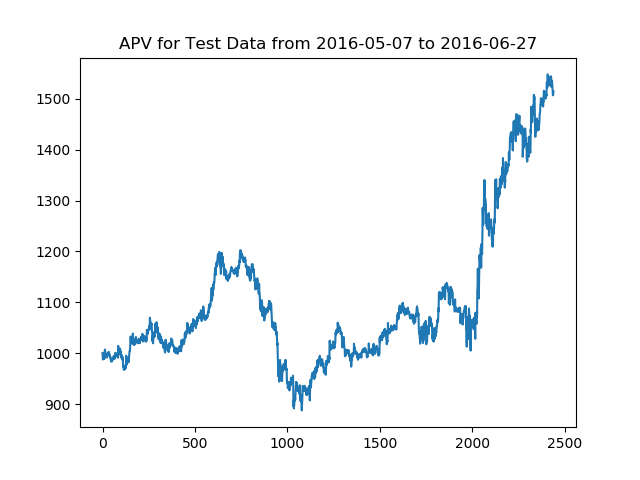
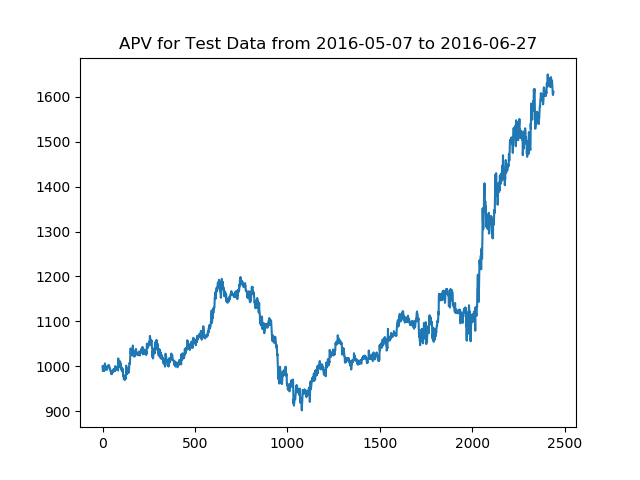
Faster Evaluation Fix

diff --git a/models/ppo_model.py b/models/ppo_model.py
@@ -26,7 +26,7 @@ class PPONetwork:
         self._num_features = num_features
         self._num_assets = num_assets
         self._bptt = bptt
-        self._is_training = False
+
         self._bsz = bsz
         self._lr = lr
         self._shared_layers = [num_dense_units] * num_layers
@@ -34,8 +34,13 @@ class PPONetwork:
         self._delta = delta
         self._wt_init = tf.initializers.random_uniform(minval=-3e-3, maxval=3e-3)
 
+        self.n_channels = [20, 20]
+        self.kernel_sizes = [8, 8]
+        self.strides = [1, 1]
+
         with tf.variable_scope("Network_Input"):
             self._market_state = tf.placeholder(tf.float32, [None, self._bptt, self._num_features, self._num_assets],name="INPUT")
+            self._is_training = tf.placeholder(tf.bool, None)
             # self.__allocation_gradients = tf.placeholder(tf.float32, [None, self._num_assets + 1])
             # self._true_reward = tf.placeholder(tf.float32, [None,1])
 
@@ -51,6 +56,7 @@ class PPONetwork:
         self._old_policy_op, self._old_value_op, self._old_dist_op = self.build_ac_network(self._old_scp_name, self._shared_layers)
         self._tmp_policy_op, self._tmp_value_op, self._tmp_dist_op = self.build_ac_network(self._tmp_scp_name, self._shared_layers)
 
+
         self.__get_loss_op
         self.__optimize_op
         self.__backup_new_params_op
@@ -61,11 +67,20 @@ class PPONetwork:
         shapes = self._market_state.get_shape().as_list()
         net = tf.reshape(self._market_state, [-1, shapes[1] , shapes[2] * shapes[3]])
         with tf.variable_scope(pre_scope + "_shared"):
-            cell = tf.contrib.rnn.LSTMBlockCell(self._num_hid)
-            net, _ = tf.nn.bidirectional_dynamic_rnn(cell, cell, net, dtype=tf.float32)
-            net = tf.concat(net, axis=2)
+            # cell = tf.contrib.rnn.LSTMBlockCell(self._num_hid)
+            # net, _ = tf.nn.bidirectional_dynamic_rnn(cell, cell, net, dtype=tf.float32)
+            # net = tf.concat(net, axis=2)
+            net = tf.expand_dims(net, axis=1)
+            net = tf.layers.conv2d(net, filters=self.n_channels[0], strides=(1, self.strides[0]),
+                                   kernel_size=(1, self.kernel_sizes[0]), padding="SAME")
+            net = self.batch_norm(net, self.n_channels[0], self._is_training)
+            net = tf.layers.conv2d(net, filters=self.n_channels[1], strides=(1, self.strides[1]),
+                                   kernel_size=(1, self.kernel_sizes[1]), padding="SAME")
+            net = self.batch_norm(net, self.n_channels[1], self._is_training)
+            net = tf.squeeze(net, axis=1)
 
-            net = tf.reshape(net, [-1, 2 * self._num_hid * self._bptt])
+            shape = net.get_shape().as_list()
+            net = tf.reshape(net, [-1, shape[1] * shape[2]])
             for idx, hidden in enumerate(hidden_layers):
                 net = tf.layers.dense(net, units=hidden,
                                       activation=tf.nn.tanh, kernel_initializer=self._wt_init,
@@ -134,21 +149,52 @@ class PPONetwork:
     def update_old_params_op(self, sess):
         return sess.run([self.__update_old_params_op])
 
-    def optimize(self, sess, state, action, value, advantage):
+    def optimize(self, sess, state, action, value, advantage, is_train):
         return sess.run([self.__optimize_op, self.__get_loss_op], {
             self._market_state: state, self.actor_t: action,
-            self.value_t: value, self.advantage_t: advantage
+            self.value_t: value, self.advantage_t: advantage, self._is_training: is_train
         })
 
-    def get_softmax_policy(self, sess, state):
+    def get_softmax_policy(self, sess, state, is_train):
         return sess.run(tf.nn.softmax(self._new_policy_op), {
-            self._market_state: state
+            self._market_state: state, self._is_training: is_train
         })
     # def get_ratio_and_loss(self, sess, state, actions, values, advantage):
     #     return sess.run(self.__get_loss_op, {
     #         self._market_state: state, self.actor_t: actions,
     #         self.value_t: values, self.advantage_t: advantage
     #     })
+
+    @staticmethod
+    def batch_norm(x, n_out, phase_train, scope='bn'):
+        """
+        Batch normalization on convolutional maps.
+        Args:
+            x:           Tensor, 4D BHWD input maps
+            n_out:       integer, depth of input maps
+            phase_train: boolean tf.Varialbe, true indicates training phase
+            scope:       string, variable scope
+        Return:
+            normed:      batch-normalized maps
+        """
+        with tf.variable_scope(scope):
+            beta = tf.Variable(tf.constant(0.0, shape=[n_out]),
+                               name='beta', trainable=True)
+            gamma = tf.Variable(tf.constant(1.0, shape=[n_out]),
+                                name='gamma', trainable=True)
+            batch_mean, batch_var = tf.nn.moments(x, [0, 1, 2], name='moments')
+            ema = tf.train.ExponentialMovingAverage(decay=0.5)
+
+            def mean_var_with_update():
+                ema_apply_op = ema.apply([batch_mean, batch_var])
+                with tf.control_dependencies([ema_apply_op]):
+                    return tf.identity(batch_mean), tf.identity(batch_var)
+
+            mean, var = tf.cond(phase_train,
+                                mean_var_with_update,
+                                lambda: (ema.average(batch_mean), ema.average(batch_var)))
+            normed = tf.nn.batch_normalization(x, mean, var, beta, gamma, 1e-3)
+        return normed
 
 class PPOAgent:
     def __init__(self, bsz, gamma=0.9, lam=0.95, reuse=None,
@@ -171,10 +217,10 @@ class PPOAgent:
                                    num_dense_units=num_dense_units, num_layers=num_layers, delta=delta, tag=tag
                                    )
 
-    def act_and_fetch(self, sess, last_state, last_action, last_value, reward, cur_state, idx):
+    def act_and_fetch(self, sess, last_state, last_action, last_value, reward, cur_state, is_train, idx):
 
         action, value = sess.run([self._network._new_policy_op, self._network._new_value_op],{
-            self._network._market_state : cur_state
+            self._network._market_state : cur_state, self._network._is_training: is_train
         })
         # action, value = action[0], value[0]
         if idx != 0:
@@ -186,14 +232,14 @@ class PPOAgent:
         self.t += 1
         return action, value
 
-    def train(self, sess, state, actions, values, advantage):
+    def train(self, sess, state, actions, values, advantage, is_train):
         self._network.backup_new_params(sess)
-        _, loss_ratio = self._network.optimize(sess, state, actions, values, advantage)
+        _, loss_ratio = self._network.optimize(sess, state, actions, values, advantage, is_train)
         self._network.update_old_params_op(sess)
         return loss_ratio[0], loss_ratio[1]
 
-    def get_allocations(self, sess, state):
-        return self._network.get_softmax_policy(sess, state)
+    def get_allocations(self, sess, state, is_train):
+        return self._network.get_softmax_policy(sess, state, is_train)
 
     def _reset_trajectories(self):
         self.states = []

diff --git a/examples/lab_ppo_rb.py b/examples/lab_ppo_rb.py
@@ -58,7 +58,7 @@ if __name__ == '__main__':
 
             for idx, (bTrainX, bTrainY) in enumerate(batch_gen.load_train()):
                 if (idx + 1) % OPTIMIZE_AFTER != 0:
-                    actor_action, critic_value = agent.act_and_fetch(sess, last_state, last_action, last_value, actor_rewards, bTrainX, idx)
+                    actor_action, critic_value = agent.act_and_fetch(sess, last_state, last_action, last_value, actor_rewards, bTrainX, True, idx)
                     last_state, last_action, last_value = bTrainX, actor_action, critic_value
 
                     actor_rewards = np.dot(actor_action.flatten(), bTrainY[:,-1,:].flatten())
@@ -74,7 +74,8 @@ if __name__ == '__main__':
                         loss, ratio = agent.train(sess, state=states[batch:batch+BSZ],
                                     actions=actions[batch:batch + BSZ],
                                     values=values[batch:batch + BSZ],
-                                    advantage=advantage[batch:batch + BSZ]
+                                    advantage=advantage[batch:batch + BSZ],
+                                    is_train=True
                                     )
                         bloss += loss
                     losses.append(bloss/RB_FACTOR)
@@ -83,9 +84,11 @@ if __name__ == '__main__':
             losses = []
             allocation_wts = []
             price_change_vec = []
+
+            batch_gen.bsz = BSZ
             for bEvalX, bEvalYFat in batch_gen.load_test():
                 bEvalY = bEvalYFat[:,-1,:]
-                actor_action_test = agent.get_allocations(sess, bEvalX)
+                actor_action_test = agent.get_allocations(sess, bEvalX, is_train=False)
                 assert bEvalY.shape == actor_action_test.shape
                 price_change_vec.append(bEvalY)
                 allocation_wts.append(actor_action_test)
@@ -98,4 +101,6 @@ if __name__ == '__main__':
             m = get_metrics(dt_range=test_date)
             print("Our Policy:")
             m.apv_multiple_asset(true_change_vec, allocation_wts, get_graph=True, pv_0=INIT_PV)
+
             agent._reset_trajectories()
+            batch_gen.bsz = 1
